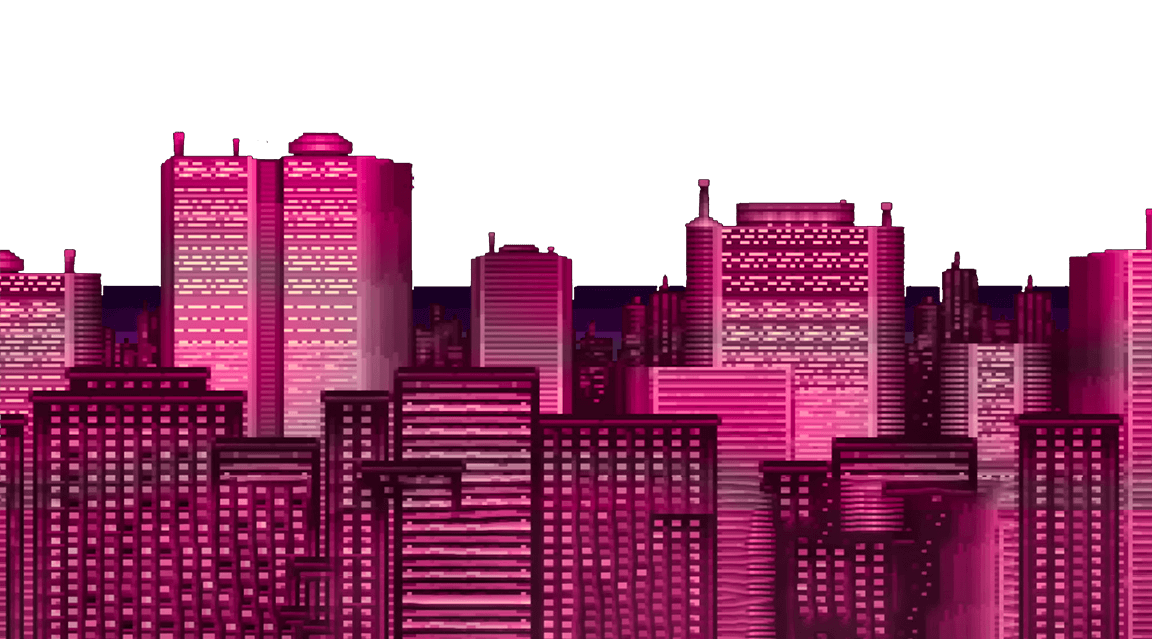
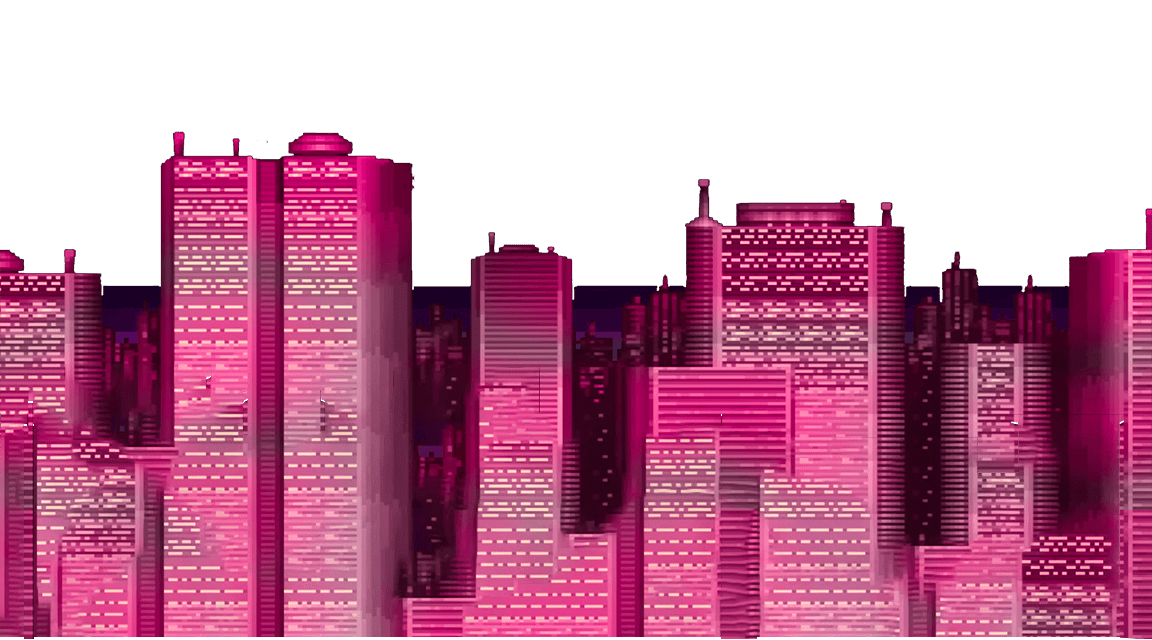
intro update

Changed region(s): [[0.0, 0.5625, 0.625, 1.0], [0.6562, 0.625, 1.0, 1.0]]

diff --git a/js/init.js b/js/init.js
@@ -141,23 +141,28 @@ function playIntro() {
         .to(["#intro-licensed-by","#intro-roar","#intro-primitai"],0,{alpha:0}, "city")
         .to("#intro-city",0,{alpha:1}, "city")    
         .to("#intro-city-txt1", 0, {alpha:1}, "city")
-        .call(typeText,[intro_city_txt1,2,0], ">")
+        .call(typeText,[intro_city_txt1,2,0], "cu")
         .to("#intro-city-02",0,{y:60}, "city")    
-        .to(["#intro-city-01","#intro-city-02"],2,{alpha:1}, "city+=1")
+        .to("#intro-city-03",0,{y:80}, "city")    
+        .to(["#intro-city-cover"],0,{alpha:1}, "city")
+        .to(["#intro-city-01","#intro-city-02","#intro-city-03"],0,{alpha:1}, "city+=1")
+        .to(["#intro-city-cover"],3,{alpha:0,ease:"linear"}, "city+=1")
         .to("#intro-city-02",6,{y:0, ease:"linear"}, "city+=3")
+        .to("#intro-city-03",6,{y:0, ease:"linear"}, "city+=3")
         .to("#intro-city-txt1", 1, {alpha:0}, "city+=4")
         .to("#intro-city-txt2", 0, {alpha:1}, "city+=4")
     .addLabel("city2", "city+=3")
         .call(typeText,[intro_city_txt2,2,0], "city2")
         .to("#intro-city-txt2", 1, {alpha:0}, "city2+=3")
-        .to("#intro-city",1,{alpha:0}, "city2+=8")    
+        .to("#intro-city",1,{alpha:0}, "city2+=4")    
 
 
     .addLabel("lockup", ">")
         .to("#intro-shredded",12,{x:-20,ease:"linear"},"lockup")
         .to("#intro-beheaded",12,{x:20,ease:"linear"},"lockup")
         .to("#intro-bg",12,{scale:1.1,ease:"linear",transformOrigin:"center bottom"},"lockup")
-        .to(["#introContainer","#intro-player","#intro-bg"],0,{alpha:1},"lockup")
+        .to(["#introContainer","#intro-bg","#intro-player-walk"],0,{alpha:1},"lockup")
+        .call(introPlayerWalk,[],"lockup")
         .to("#intro-shredded",0,{alpha:1},">.4")
         .to("#intro-and",0,{alpha:1},">.4")
         .to("#intro-beheaded",0,{alpha:1},">.4")
@@ -188,20 +193,54 @@ function playIntro() {
     mobileControls.addEventListener('touchend', introSkip);
 }
 
+var introWalk = {x:-100,spriteX:0}
+var introWalk_canvas = document.getElementById('intro-player-walk');
+introWalk_canvas.width=576;
+introWalk_canvas.height=320;
+var ctxIntroWalk = introWalk_canvas.getContext('2d');
+var introWalk_img = new Image();
+introWalk_img.src = "images/Text/intro-walk.png";
+
+function introPlayerWalk(){
+    createjs.Ticker.addEventListener("tick", animateWalking);
+    createjs.Ticker.framerate = 10;
+}
+
+function animateWalking(){
+    ctxIntroWalk.clearRect(0, 0, canvas.width, canvas.height);
+    ctxIntroWalk.drawImage(introWalk_img, introWalk.spriteX, 0, 134, 134, introWalk.x, 180, 134, 134);
+    introWalk.spriteX-=134;
+    if(introWalk.spriteX<=0){introWalk.spriteX=806-134}
+
+    introWalk.x+=8;
+    if(introWalk.x>80){
+        createjs.Ticker.removeEventListener("tick", animateWalking);
+        gsap.to("#intro-player-walk",0,{alpha:0});
+        gsap.to("#intro-player",0,{alpha:1});
+    }
+}
 
 function introSkip(){
-    if(introTL.nextLabel()!="complete"){
-
+    // console.log("nextLabel: "+introTL.nextLabel());
+    if(introTL.nextLabel()!="complete" && introTL.nextLabel()!=undefined){
         introTL.seek(introTL.nextLabel());
 
-        if(introTL.nextLabel()=="complete"){
-            container.addEventListener('click', bindButtons);
-            window.addEventListener('keydown', bindButtons);
-            mobileControls.addEventListener('touchend', bindButtons);    
-        }
-    } else{ 
+    } else if(introTL.nextLabel()=="complete"){ 
+        container.removeEventListener('click', introSkip);
+        window.removeEventListener('keydown', introSkip);
+        mobileControls.removeEventListener('touchend', introSkip);
+        
         container.addEventListener('click', bindButtons);
         window.addEventListener('keydown', bindButtons);
         mobileControls.addEventListener('touchend', bindButtons);
+    } else {
+
+        
+        // console.log("nextLabel undefined");
+        container.removeEventListener('click', introSkip);
+        window.removeEventListener('keydown', introSkip);
+        mobileControls.removeEventListener('touchend', introSkip);
+
+        bindButtons();
     }
 }

diff --git a/index.html b/index.html
@@ -216,6 +216,9 @@
                     <img src="images/Text/intro-city-01.jpg" id="intro-city-01" class="intro-title-img" />
                     <div id="intro-city-txt2" class="txt hidden">the battle for survival rages on...</div>
                     <img src="images/Text/intro-city-02.png" id="intro-city-02" class="intro-title-img hidden" />
+                    
+                    <img src="images/Text/intro-city-03.png" id="intro-city-03" class="intro-title-img hidden" />
+                    <div id="intro-city-cover" class="intro-title-img hidden"></div>
                     <div id="intro-city-txt1" class="txt hidden">in the heart of the fallen city, </div>
                 </div>
 
@@ -225,6 +228,7 @@
                 <img src="images/Text/title-attempt-3.png" id="intro-shredded" class="intro-title-img hidden" />
                 <img src="images/Text/title-attempt-4.png" id="intro-and" class="intro-title-img hidden" />
                 <img src="images/Text/title-attempt-5.png" id="intro-beheaded" class="intro-title-img hidden" />
+                <canvas id="intro-player-walk" class="intro-title-img hidden"></canvas>
                 <img src="images/Text/title-attempt-6.png" id="intro-player" class="intro-title-img hidden" />
                 <div id="intro_txt" class="txt hidden">click to play</div>
             </div>

diff --git a/js/buttons.js b/js/buttons.js
@@ -13,14 +13,17 @@ var btnMoveUp, btnMoveForwards, btnMoveBackwards, btnMoveDown, btnJump, btnOptio
 function bindButtons(){
     if(intro){
         intro=false;
+        introContainer.innerHTML="";
         gsap.to(introContainer,0,{display:"none"});
         gsap.to("#overlay-stereo",0,{display:"flex"});
         gsap.to("#tape",0,{display:"block"});
     }
-
+    createjs.Ticker.removeEventListener("tick", animateWalking);
     container.removeEventListener('click', introSkip);
     window.removeEventListener('keydown', introSkip);
     mobileControls.removeEventListener('touchstart', introSkip);
+
+    createjs.Ticker.framerate = frameRate;
 
 
     createjs.Ticker.addEventListener("tick", checkKeys);

diff --git a/styles/styles.css b/styles/styles.css
@@ -341,6 +341,12 @@ button {
 #intro-city-txt2 {
     top: 76px;
 }
+#intro-city-cover {
+    background-color: #0d0114;
+}
+#intro-player {
+    left: 58%;
+}
 #intro_txt{
     top: 50%;
     left: 50%;
